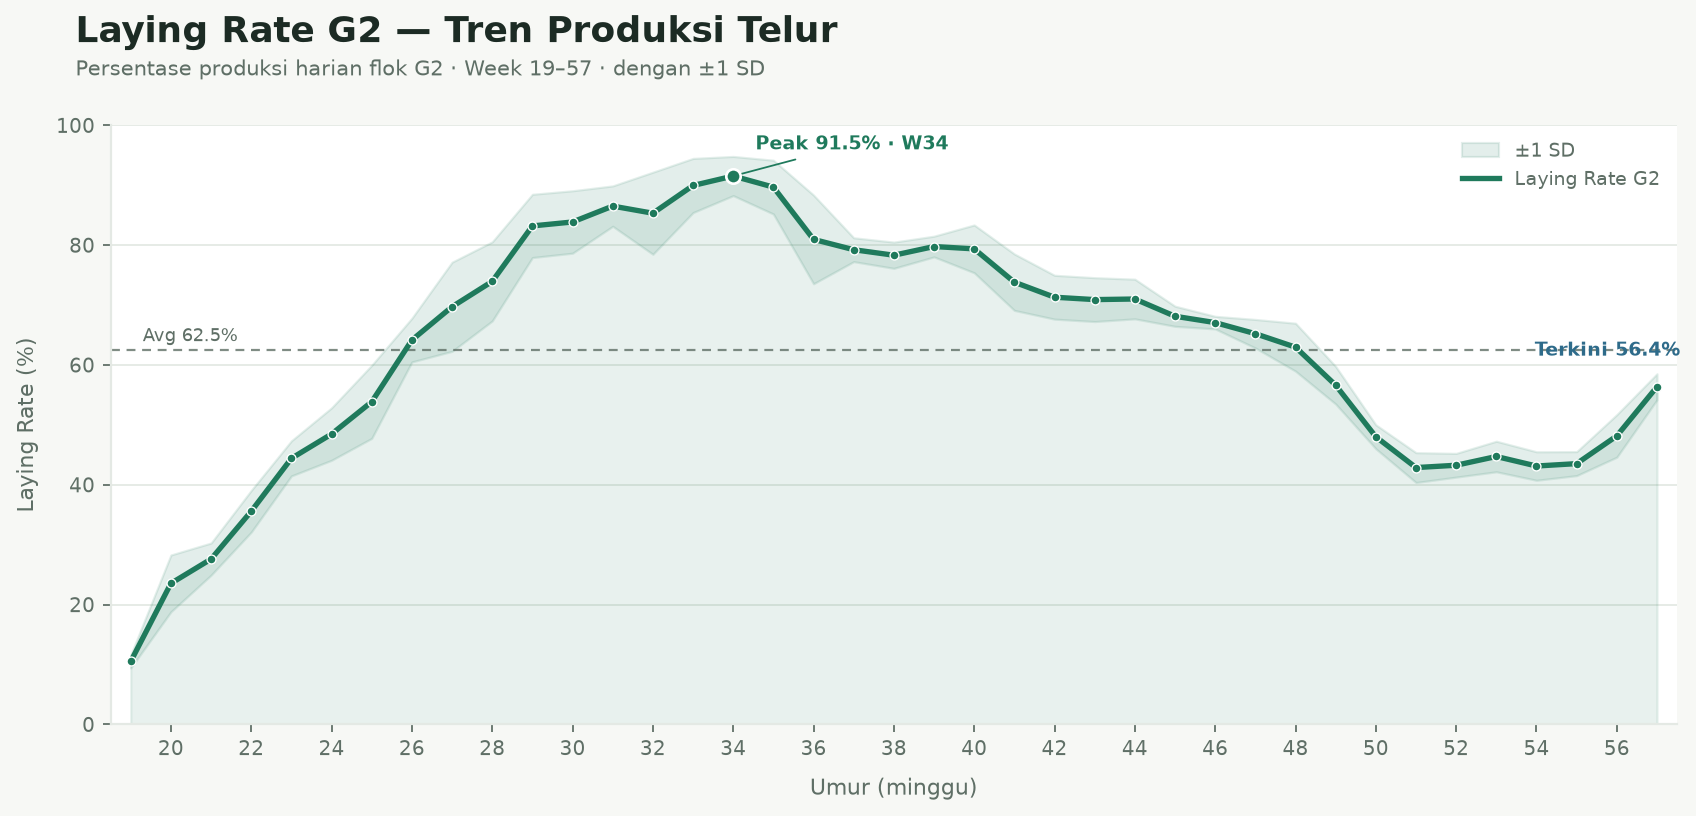
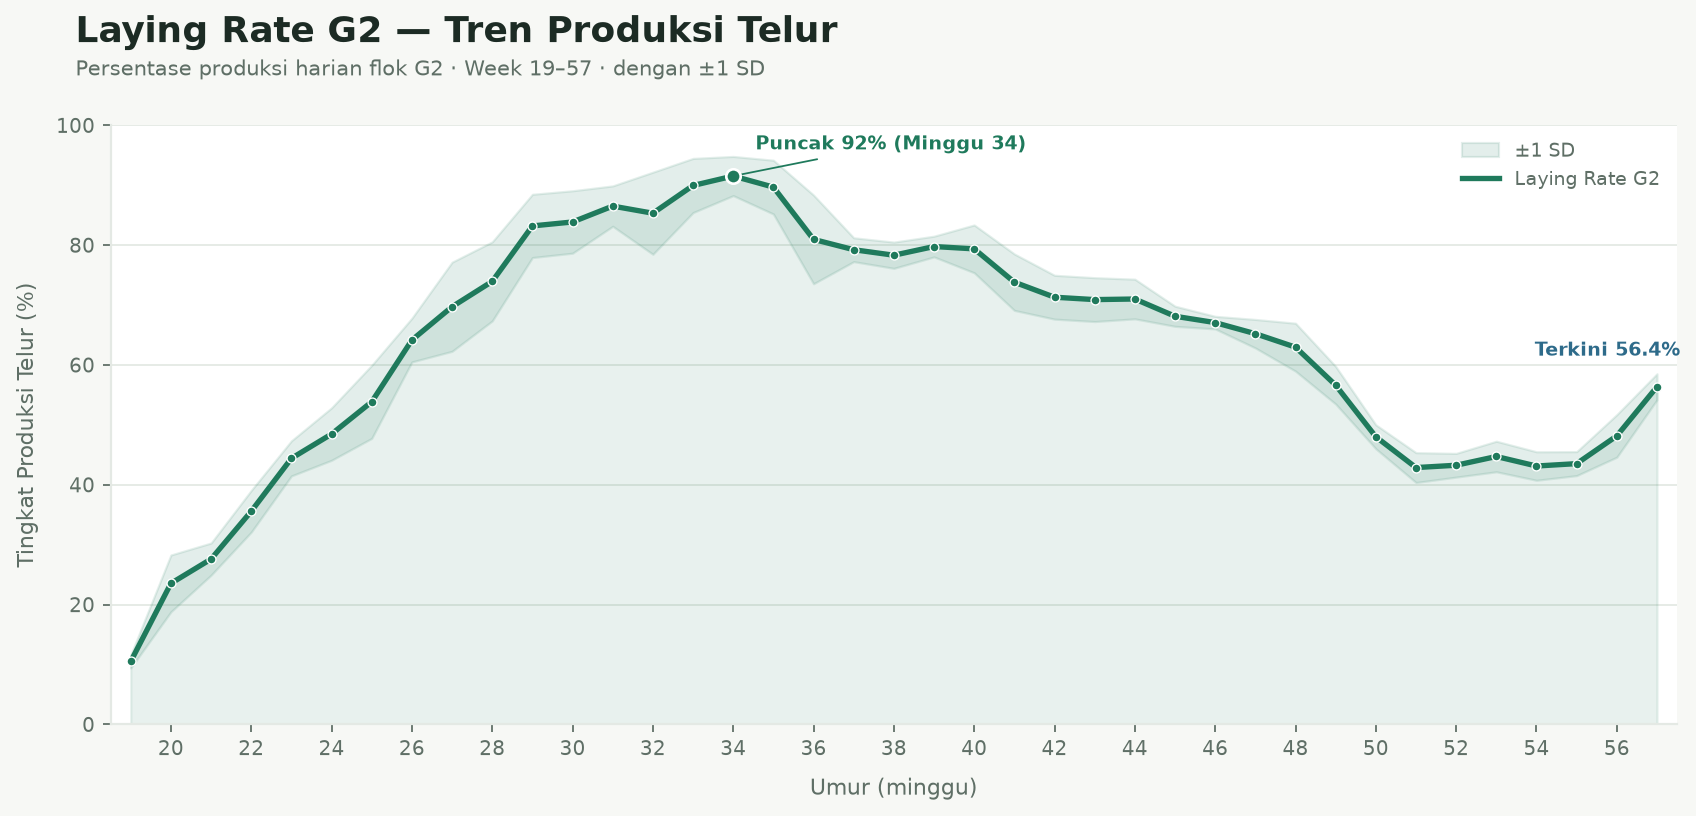
Perbaiki label grafik Laying Rate
Ganti anotasi peaking menjadi Puncak 92% (Minggu 34), hilangkan
garis average, dan ubah label sumbu Y ke Tingkat Produksi Telur (%).

Changed region(s): [[0.0, 0.4289, 0.0312, 0.674], [0.4375, 0.1532, 0.625, 0.2145], [0.0938, 0.3983, 0.1562, 0.4289]]

diff --git a/charts/dashboard.html b/charts/dashboard.html
@@ -159,7 +159,7 @@
     <section class="kpis">
       <div class="kpi lr">
         <div class="label">Puncak Laying Rate</div>
-        <div class="value">91,53%</div>
+        <div class="value">92%</div>
         <div class="meta">Minggu 34</div>
       </div>
       <div class="kpi lr">
@@ -182,10 +182,10 @@
     <section class="grid">
       <article class="card">
         <h2>Laying Rate G2 (%)</h2>
-        <p class="sub">Sumbu X: umur (minggu) · Sumbu Y: tingkat produksi telur (%) · area ±1 SD</p>
+        <p class="sub">Sumbu X: umur (minggu) · Sumbu Y: Tingkat Produksi Telur (%) · area ±1 SD</p>
         <div class="chart-box"><canvas id="lrChart"></canvas></div>
         <div class="note">
-          Pola climb → peak → decline: naik tajam hingga puncak 91,53% di W34, turun ke ~43% di W51, lalu rebound ke 56,35% di W57.
+          Pola climb → peak → decline: naik tajam hingga puncak 92% di Minggu 34, turun ke ~43% di W51, lalu rebound ke 56,35% di W57.
         </div>
       </article>
 
@@ -224,7 +224,6 @@
     const EW_WEEKS = [20,21,22,23,24,25,26,27,28,29,30];
     const EW_WEIGHT = [66.18,67.48,67.83,68.24,69.34,69.44,71.53,72.39,71.77,71.12,72.44];
     const EW_SD = [1.15,0.94,0.99,0.73,0.95,0.64,0.86,0.71,0.62,0.63,0.49];
-    const avgLR = +(LR_G2.reduce((a,b)=>a+b,0)/LR_G2.length).toFixed(1);
     const avgEW = +(EW_WEIGHT.reduce((a,b)=>a+b,0)/EW_WEIGHT.length).toFixed(1);
     const overlapLR = EW_WEEKS.map(w => LR_G2[LR_WEEKS.indexOf(w)]);
 
@@ -299,14 +298,30 @@
         ...baseOpts,
         scales: {
           ...baseOpts.scales,
-          y: { ...baseOpts.scales.y, min: 0, max: 100, title: { display: true, text: "Laying Rate (%)", color: "#5f6f66", font: { family: "DM Sans", size: 11 } } },
+          y: { ...baseOpts.scales.y, min: 0, max: 100, title: { display: true, text: "Tingkat Produksi Telur (%)", color: "#5f6f66", font: { family: "DM Sans", size: 11 } } },
         },
         plugins: {
           ...baseOpts.plugins,
           annotation: {
             annotations: {
-              peak: { type: "line", yMin: 91.53, yMax: 91.53, borderColor: "#1f7a5c", borderWidth: 1, borderDash: [5,4], label: { display: true, content: "Peak 91.53%", position: "end", backgroundColor: "#1f7a5c", color: "#fff", font: { size: 10 } } },
-              avg: { type: "line", yMin: avgLR, yMax: avgLR, borderColor: "#5f6f66", borderWidth: 1, borderDash: [3,3], label: { display: true, content: `Avg ${avgLR}%`, position: "start", backgroundColor: "#5f6f66", color: "#fff", font: { size: 10 } } },
+              peak: {
+                type: "point",
+                xValue: 15,
+                yValue: 91.53,
+                backgroundColor: "#1f7a5c",
+                borderColor: "#fff",
+                borderWidth: 2,
+                radius: 5,
+                label: {
+                  display: true,
+                  content: "Puncak 92% (Minggu 34)",
+                  position: "top",
+                  backgroundColor: "#1f7a5c",
+                  color: "#fff",
+                  font: { size: 10, weight: "600" },
+                  padding: 4,
+                },
+              },
             },
           },
         },

diff --git a/scripts/generate_charts.py b/scripts/generate_charts.py
@@ -171,7 +171,13 @@ def chart_laying_rate() -> Path:
     ax.scatter(LR_WEEKS, LR_G2, s=16, color=LR_COLOR, zorder=4, edgecolors="white", linewidths=0.6)
 
     peak_i = int(np.argmax(LR_G2))
-    annotate_peak(ax, LR_WEEKS[peak_i], LR_G2[peak_i], f"Peak {LR_G2[peak_i]:.1f}% · W{LR_WEEKS[peak_i]}", LR_COLOR)
+    annotate_peak(
+        ax,
+        LR_WEEKS[peak_i],
+        LR_G2[peak_i],
+        f"Puncak {round(LR_G2[peak_i])}% (Minggu {LR_WEEKS[peak_i]})",
+        LR_COLOR,
+    )
     ax.annotate(
         f"Terkini {LR_G2[-1]:.1f}%",
         xy=(LR_WEEKS[-1], LR_G2[-1]),
@@ -182,11 +188,7 @@ def chart_laying_rate() -> Path:
         fontweight="600",
     )
 
-    avg = float(LR_G2.mean())
-    ax.axhline(avg, color=MUTED, lw=1, ls=(0, (4, 3)), alpha=0.8, zorder=2)
-    ax.text(LR_WEEKS[0] + 0.3, avg + 1.5, f"Avg {avg:.1f}%", fontsize=8, color=MUTED)
-
-    style_axes(ax, "Laying Rate (%)")
+    style_axes(ax, "Tingkat Produksi Telur (%)")
     ax.set_xlim(18.5, 57.5)
     ax.set_ylim(0, 100)
     ax.xaxis.set_major_locator(MultipleLocator(2))
@@ -252,7 +254,7 @@ def chart_combined() -> Path:
 
     # KPIs strip
     kpis = [
-        ("Peak LR", f"{LR_G2.max():.1f}%", f"W{LR_WEEKS[int(np.argmax(LR_G2))]}"),
+        ("Puncak LR", f"{round(LR_G2.max())}%", f"Minggu {LR_WEEKS[int(np.argmax(LR_G2))]}"),
         ("LR terkini", f"{LR_G2[-1]:.1f}%", "W57"),
         ("Avg LR", f"{LR_G2.mean():.1f}%", "W19–57"),
         ("Peak bobot", f"{EW_WEIGHT.max():.2f} g", f"W{EW_WEEKS[int(np.argmax(EW_WEIGHT))]}"),
@@ -284,7 +286,15 @@ def chart_combined() -> Path:
     ax1.fill_between(LR_WEEKS, 0, LR_G2, color=LR_FILL, alpha=0.12, zorder=2)
     ax1.plot(LR_WEEKS, LR_G2, color=LR_COLOR, lw=2.2, zorder=3)
     ax1.scatter(LR_WEEKS, LR_G2, s=12, color=LR_COLOR, zorder=4, edgecolors="white", linewidths=0.5)
-    style_axes(ax1, "Laying Rate (%)")
+    peak_i = int(np.argmax(LR_G2))
+    annotate_peak(
+        ax1,
+        LR_WEEKS[peak_i],
+        LR_G2[peak_i],
+        f"Puncak {round(LR_G2[peak_i])}% (Minggu {LR_WEEKS[peak_i]})",
+        LR_COLOR,
+    )
+    style_axes(ax1, "Tingkat Produksi Telur (%)")
     ax1.set_xlim(18.5, 57.5)
     ax1.set_ylim(0, 100)
     ax1.set_title("Laying Rate G2 (%)", loc="left", fontsize=11, color=INK, pad=8)

diff --git a/README.md b/README.md
@@ -25,5 +25,5 @@ python3 scripts/generate_charts.py
 
 ## Ringkasan temuan
 
-- **Laying Rate** puncak **91,53%** di minggu **34**, turun ke ~43% di W51, rebound ke **56,35%** di W57.
+- **Laying Rate** puncak **92%** di minggu **34**, turun ke ~43% di W51, rebound ke **56,35%** di W57.
 - **Bobot telur** naik dari **66,18 g** (W20) ke **72,44 g** (W30); SD mengecil (lebih seragam).
